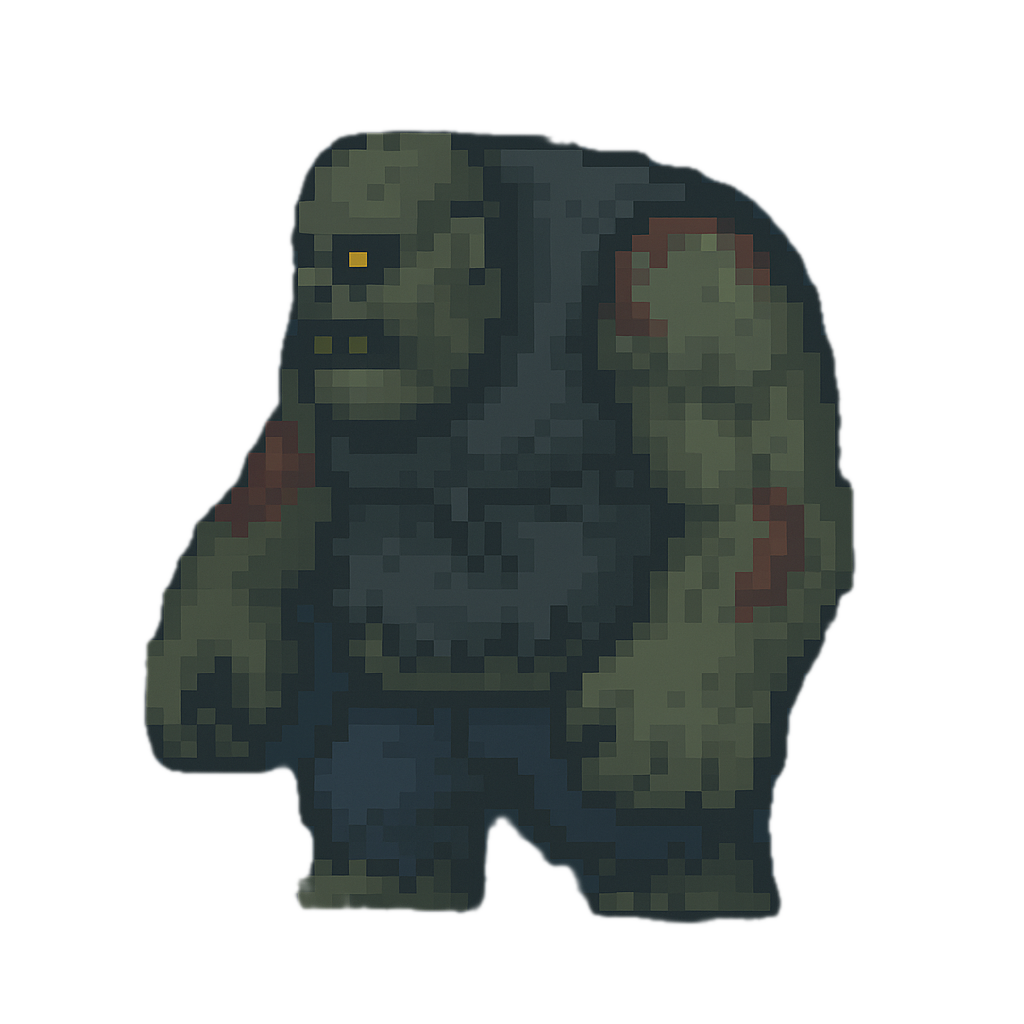
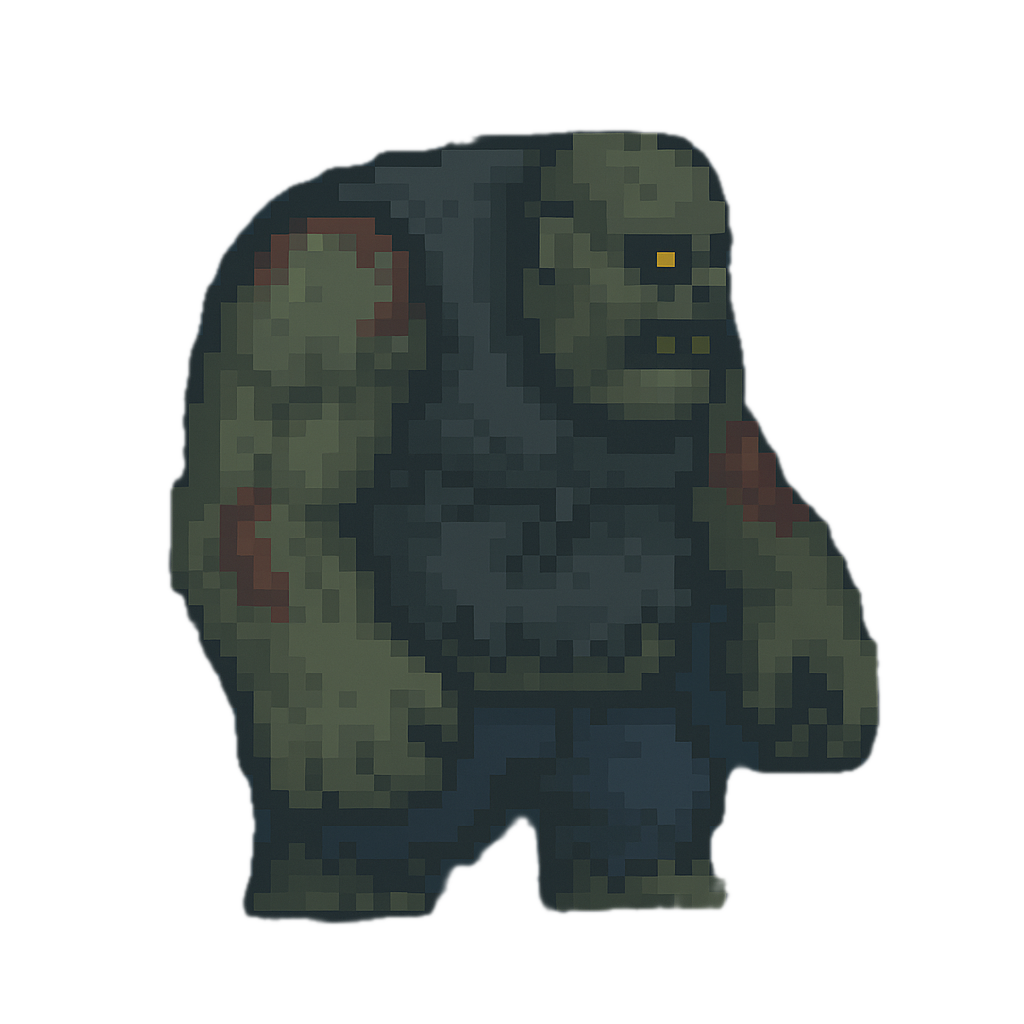
Implement shooting cooldown system to balance gameplay
• Added 400ms cooldown between shots to prevent rapid-fire spam
• Players can now fire maximum 2.5 shots per second for more tactical gameplay
• Updated zombie-2.png asset with improved tank zombie sprite
• Each shot requires more deliberate aiming and timing

🤖 Generated with [Claude Code](https://claude.ai/code)

Changed region(s): [[0.125, 0.125, 0.875, 0.9062]]

diff --git a/client/src/scenes/GameScene.js b/client/src/scenes/GameScene.js
@@ -27,6 +27,8 @@ export default class GameScene extends Phaser.Scene {
         this.isMobile = false;
         this.joystickPointerId = null; // Track which pointer is controlling joystick
         this.aimingPointerId = null;   // Track which pointer is aiming
+        this.lastShotTime = 0; // Track when last shot was fired
+        this.shotCooldown = 400; // 400ms between shots
     }
 
     preload() {
@@ -365,6 +367,12 @@ export default class GameScene extends Phaser.Scene {
     }
 
     shoot(targetX, targetY) {
+        // Check shot cooldown
+        const currentTime = this.time.now;
+        if (currentTime - this.lastShotTime < this.shotCooldown) {
+            return; // Still in cooldown, don't fire
+        }
+        
         // Check line of sight before firing
         if (this.tileMap && !this.hasLineOfSight(this.player.x, this.player.y, targetX, targetY)) {
             // Don't fire if there's a building in the way
@@ -381,6 +389,9 @@ export default class GameScene extends Phaser.Scene {
         
         // Fire bullet from player position to target
         bullet.fire(this.player.x, this.player.y, targetX, targetY);
+        
+        // Update last shot time
+        this.lastShotTime = currentTime;
         
         // Add shooting sound effect here later
         // this.sound.play('gunshot');
